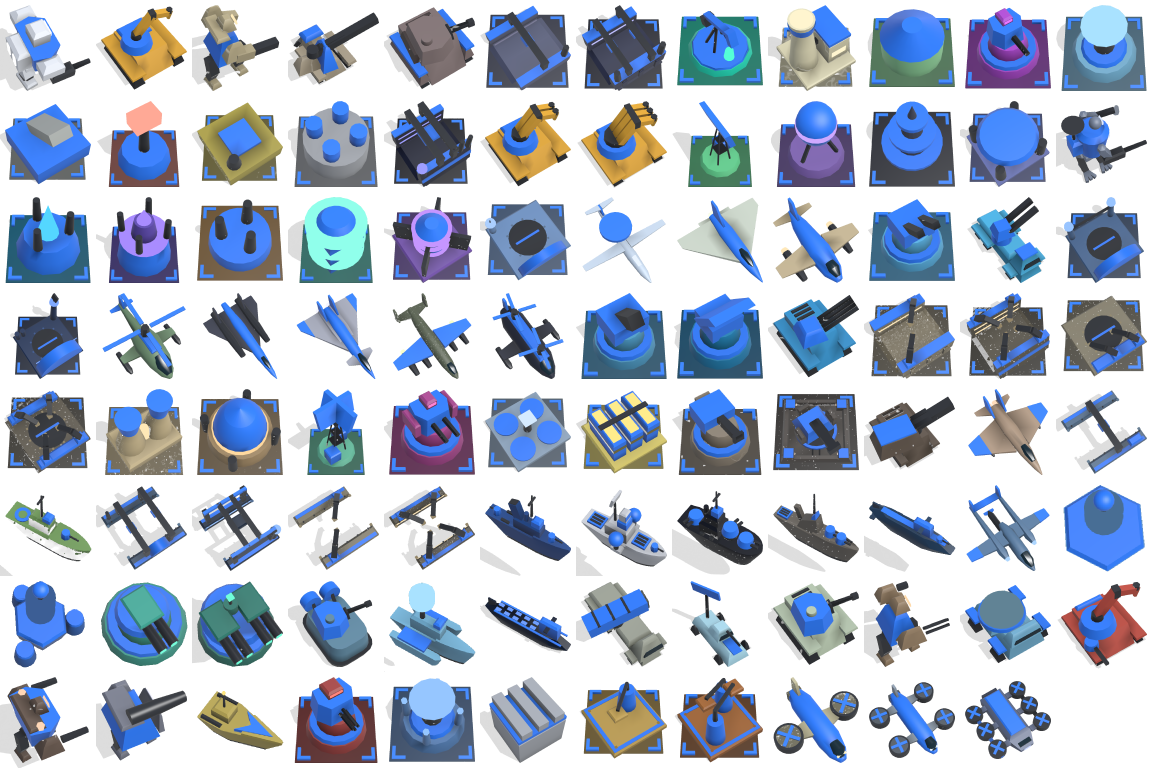
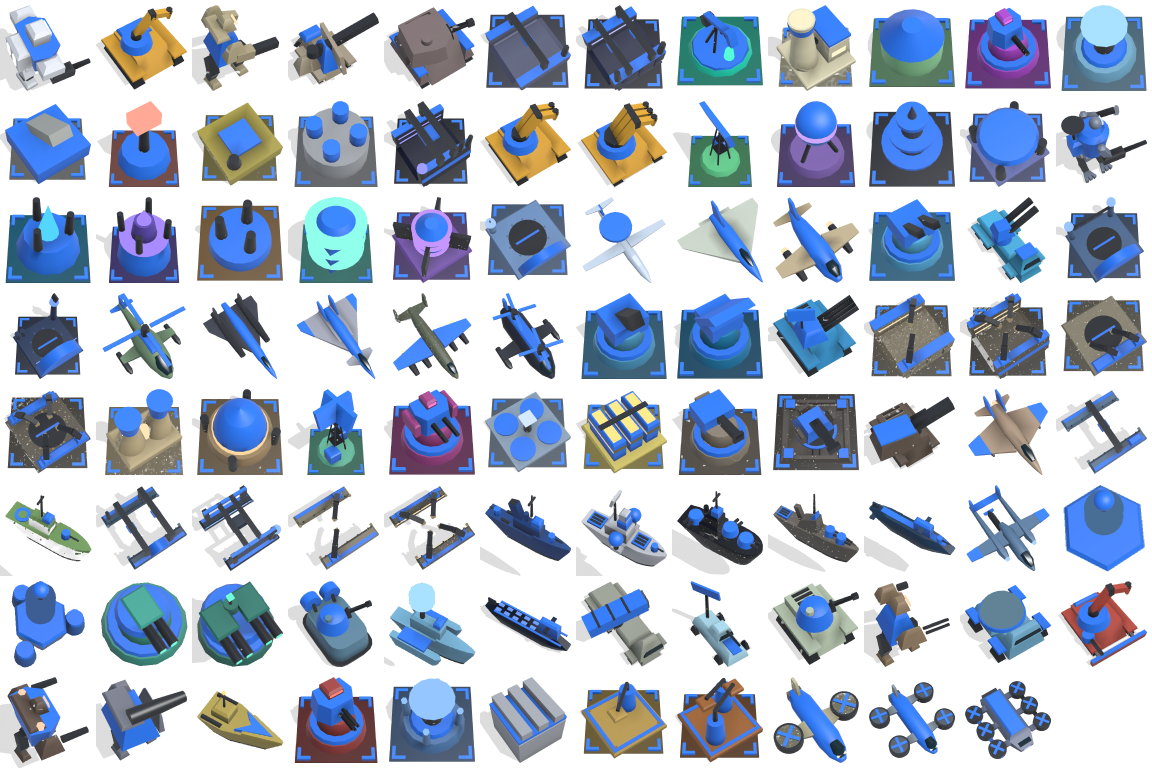
Set tracked vehicles further apart from above
- Medium tank: a round cast turret in team colors, a mantlet, and a long gun
  with a muzzle brake, where it had an angular turret. The assault hovercraft
  carries the same turret.
- Heavy tank: a wide wedge turret, sharp in front and long behind.
- Mobile flak: a radar panel turning on a mast behind its guns.
- Light artillery: a wide gun shield across its barrel.
- Mobile heavy artillery: stabilizer spades splayed out behind.
- Combat engineer: a dozer blade across its front, wider than its tracks.

diff --git a/src/render/meshes.rs b/src/render/meshes.rs
@@ -437,6 +437,7 @@ impl Shape {
             Self::Radar | Self::RadarT2 => Some(0.25),
             Self::AirFactoryT3 => Some(0.3),
             Self::LandScout => Some(0.6),
+            Self::FlakTurret => Some(0.5),
             // The extractor's pump nods as it works.
             Self::Extractor => Some(0.35),
             _ => None,
@@ -1316,16 +1317,19 @@ fn build_shape(shape: Shape, mesh: &mut MeshBuilder) {
         // A team-colored turret with a sloped front, a mantlet, a long gun with a muzzle brake,
         // and a hatch.
         Shape::Tank => {
-            mesh.prism(&[[-0.2, -0.28], [0.2, -0.28], [0.25, -0.05], [0.14, 0.12], [-0.14, 0.12], [-0.25, -0.05]], [-0.1, 0.12], [1.0, 0.82]);
+            // A rounded cast turret in team colors: round from above, where the heavy tank's is
+            // a long wedge.
+            mesh.frustum([0.0, -0.06], [-0.1, 0.1], [0.22, 0.16], 12);
+            mesh.frustum([0.0, -0.06], [0.1, 0.13], [0.16, 0.1], 12);
             mesh.paint(Material::Metal);
-            mesh.block([-0.08, 0.1, -0.04], [0.08, 0.16, 0.08]);
-            mesh.moving(motion::RECOIL, [0.0, 0.14, 0.02], |mesh| {
-                mesh.body(0.0, &[[0.14, 0.036, 0.036, 0.02], [0.42, 0.03, 0.03, 0.02]], 6);
-                mesh.body(0.0, &[[0.42, 0.048, 0.048, 0.02], [0.49, 0.048, 0.048, 0.02]], 6);
+            mesh.block([-0.07, 0.13, -0.04], [0.07, 0.19, 0.07]);
+            mesh.moving(motion::RECOIL, [0.0, 0.16, 0.015], |mesh| {
+                mesh.body(0.0, &[[0.17, 0.034, 0.034, 0.015], [0.43, 0.03, 0.03, 0.015]], 6);
+                mesh.body(0.0, &[[0.43, 0.046, 0.046, 0.015], [0.49, 0.046, 0.046, 0.015]], 6);
             });
-            mesh.flash([0.0, 0.47, 0.02], 0.06);
+            mesh.flash([0.0, 0.47, 0.015], 0.06);
             mesh.paint(Material::Hull);
-            mesh.frustum([0.08, -0.13], [0.12, 0.17], [0.06, 0.055], 8);
+            mesh.frustum([0.08, -0.15], [0.13, 0.18], [0.05, 0.045], 8);
         }
         Shape::HeavyTankHull => {
             mesh.paint(Material::Metal);
@@ -1355,8 +1359,9 @@ fn build_shape(shape: Shape, mesh: &mut MeshBuilder) {
             }
         }
         Shape::HeavyTank => {
+            // A wide wedge, sharp in front and long behind, over the gun's mantlet.
             mesh.paint(Material::Hull);
-            mesh.prism(&[[-0.26, -0.3], [0.26, -0.3], [0.3, -0.04], [0.18, 0.16], [-0.18, 0.16], [-0.3, -0.04]], [-0.06, 0.16], [1.0, 0.85]);
+            mesh.prism(&[[-0.24, -0.42], [0.24, -0.42], [0.3, -0.12], [0.3, 0.02], [0.14, 0.18], [-0.14, 0.18], [-0.3, 0.02], [-0.3, -0.12]], [-0.06, 0.16], [1.0, 0.85]);
             mesh.paint(Material::Metal);
             mesh.block([-0.1, 0.13, -0.02], [0.1, 0.2, 0.11]);
             mesh.moving(motion::RECOIL, [0.0, 0.18, 0.045], |mesh| {
@@ -1364,13 +1369,13 @@ fn build_shape(shape: Shape, mesh: &mut MeshBuilder) {
                 mesh.body(0.0, &[[0.43, 0.058, 0.058, 0.045], [0.5, 0.058, 0.058, 0.045]], 6);
             });
             mesh.flash([0.0, 0.46, 0.045], 0.07);
-            // A commander's cupola, a vision slit, and a stowage rack on the bustle.
+            // A commander's cupola, a vision slit, and a stowage rack at the end of the bustle.
             mesh.paint(Material::Hull);
             mesh.frustum([0.1, -0.16], [0.14, 0.22], [0.07, 0.06], 8);
             mesh.paint(Material::Glass);
             mesh.block([-0.16, 0.12, 0.07], [-0.06, 0.135, 0.1]);
             mesh.paint(Material::Panel);
-            mesh.block([-0.22, -0.38, -0.02], [0.22, -0.29, 0.1]);
+            mesh.block([-0.2, -0.47, -0.02], [0.2, -0.41, 0.1]);
         }
         Shape::HoverHull => {
             // A rounded oval: a rectangle with deep round corners, the only vehicle without
@@ -1496,6 +1501,12 @@ fn build_shape(shape: Shape, mesh: &mut MeshBuilder) {
                 mesh.beam([0.0, -0.1, 0.0], [0.0, 0.14, 0.07], 0.022, 0.022);
             });
             mesh.flash([0.0, 0.47, 0.14], 0.06);
+            // A wide gun shield across the barrel, leaning back.
+            mesh.paint(Material::Hull);
+            mesh.cuboid(
+                [Vec3::new(-0.25, 0.02, -0.2), Vec3::new(0.25, 0.02, -0.2), Vec3::new(0.25, 0.06, -0.2), Vec3::new(-0.25, 0.06, -0.2)],
+                [Vec3::new(-0.22, -0.01, 0.06), Vec3::new(0.22, -0.01, 0.06), Vec3::new(0.22, 0.03, 0.06), Vec3::new(-0.22, 0.03, 0.06)],
+            );
         }
         // An open-air assembly bay: a floor open at both ends, east and west, between long walls,
         // under a gantry crane, so that what it builds can be seen and drives out either end.
@@ -3122,6 +3133,13 @@ fn build_shape(shape: Shape, mesh: &mut MeshBuilder) {
             for y in [-0.4_f32, -0.33] {
                 mesh.block([-0.12, y - 0.02, -0.16], [0.12, y + 0.02, -0.15]);
             }
+            // Stabilizer spades splayed out behind, dug in when it fires.
+            for x in [-1.0_f32, 1.0] {
+                mesh.paint(Material::Metal);
+                mesh.beam([x * 0.14, -0.42, -0.3], [x * 0.3, -0.45, -0.45], 0.03, 0.02);
+                mesh.paint(Material::Hull);
+                mesh.bevel([x * 0.3 - 0.07, -0.49, -0.5], [x * 0.3 + 0.07, -0.44, -0.42], 0.01);
+            }
         }
         // An engineer's hull, longer, with a gun turret over its right track: it fights too.
         Shape::CombatEngineerHull => {
@@ -3143,6 +3161,21 @@ fn build_shape(shape: Shape, mesh: &mut MeshBuilder) {
             mesh.paint(Material::Metal);
             mesh.moving(motion::RECOIL, [0.3, 0.18, -0.22], |mesh| mesh.beam([0.3, 0.18, -0.22], [0.3, 0.48, -0.22], 0.022, 0.022));
             mesh.flash([0.3, 0.47, -0.22], 0.04);
+            // A dozer blade across the front, wider than the tracks, on push arms.
+            mesh.paint(Material::Metal);
+            for x in [-0.3_f32, 0.3] {
+                mesh.beam([x, 0.2, -0.36], [x, 0.41, -0.42], 0.025, 0.025);
+            }
+            mesh.paint(Material::Hull);
+            mesh.cuboid(
+                [Vec3::new(-0.46, 0.4, -0.5), Vec3::new(0.46, 0.4, -0.5), Vec3::new(0.46, 0.46, -0.5), Vec3::new(-0.46, 0.46, -0.5)],
+                [Vec3::new(-0.46, 0.43, -0.31), Vec3::new(0.46, 0.43, -0.31), Vec3::new(0.46, 0.49, -0.31), Vec3::new(-0.46, 0.49, -0.31)],
+            );
+            mesh.paint(Material::Trim);
+            mesh.cuboid(
+                [Vec3::new(-0.46, 0.43, -0.31), Vec3::new(0.46, 0.43, -0.31), Vec3::new(0.46, 0.49, -0.31), Vec3::new(-0.46, 0.49, -0.31)],
+                [Vec3::new(-0.46, 0.432, -0.29), Vec3::new(0.46, 0.432, -0.29), Vec3::new(0.46, 0.492, -0.29), Vec3::new(-0.46, 0.492, -0.29)],
+            );
         }
         // A team-colored twin anti-aircraft gun on a mount, for a truck's bed.
         Shape::TruckAntiAir => {
@@ -3162,6 +3195,16 @@ fn build_shape(shape: Shape, mesh: &mut MeshBuilder) {
                 mesh.moving(motion::RECOIL, [x, 0.04, 0.0], |mesh| mesh.beam([x, 0.04, 0.0], [x, 0.46, 0.2], 0.018, 0.018));
             }
             mesh.flash([0.0, 0.46, 0.2], 0.07);
+            // A radar panel on a mast behind the guns, turning.
+            mesh.paint(Material::Metal);
+            mesh.frustum([0.0, -0.2], [0.08, 0.26], [0.016, 0.012], 6);
+            mesh.paint(Material::Trim);
+            mesh.moving(motion::SPIN, [0.0, -0.2, 0.0], |mesh| {
+                mesh.cuboid(
+                    [Vec3::new(-0.15, -0.23, 0.24), Vec3::new(0.15, -0.23, 0.24), Vec3::new(0.15, -0.2, 0.24), Vec3::new(-0.15, -0.2, 0.24)],
+                    [Vec3::new(-0.15, -0.19, 0.37), Vec3::new(0.15, -0.19, 0.37), Vec3::new(0.15, -0.16, 0.37), Vec3::new(-0.15, -0.16, 0.37)],
+                );
+            });
         }
         Shape::NavalTurret => mesh.turret([0.0, 0.0], [0.0, 0.09], 0.095, 2, 0.06, false),
         Shape::Beam => {
